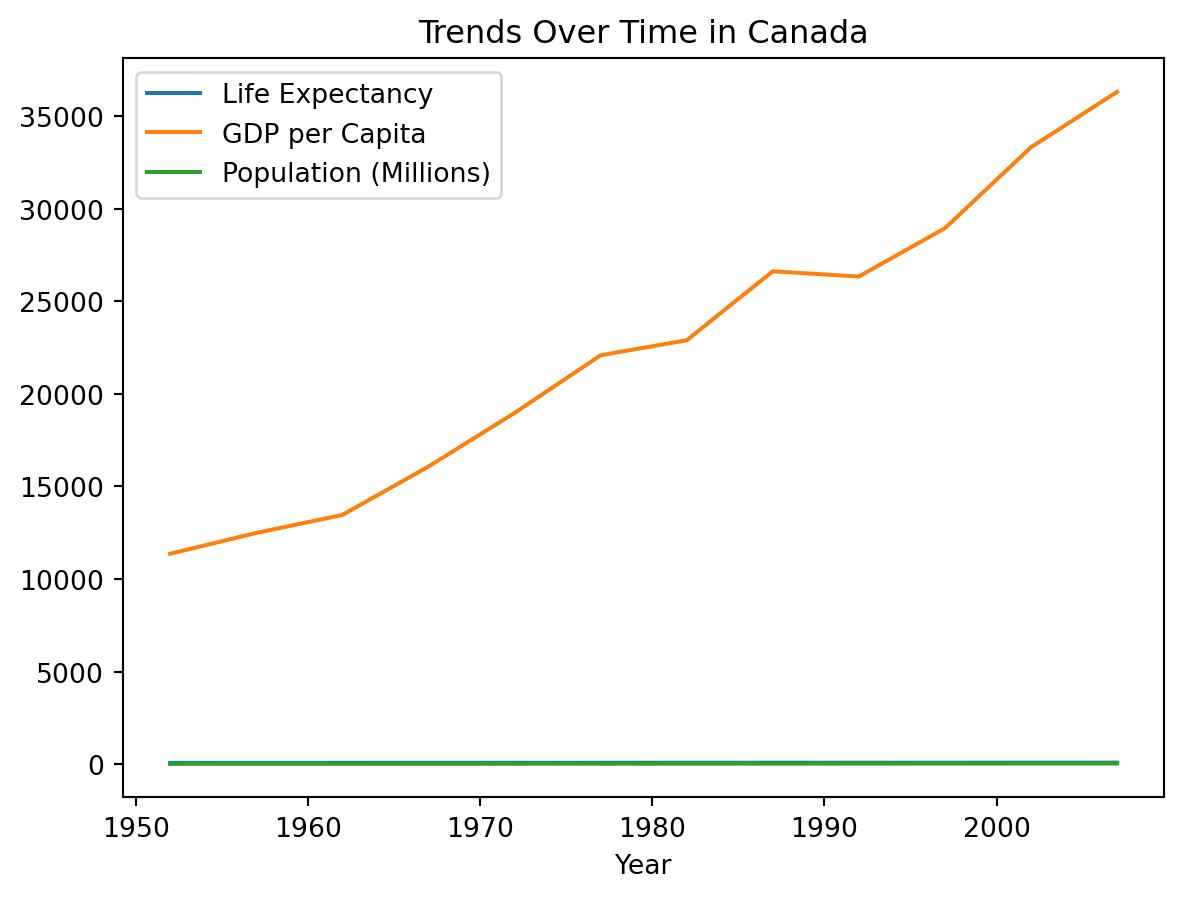
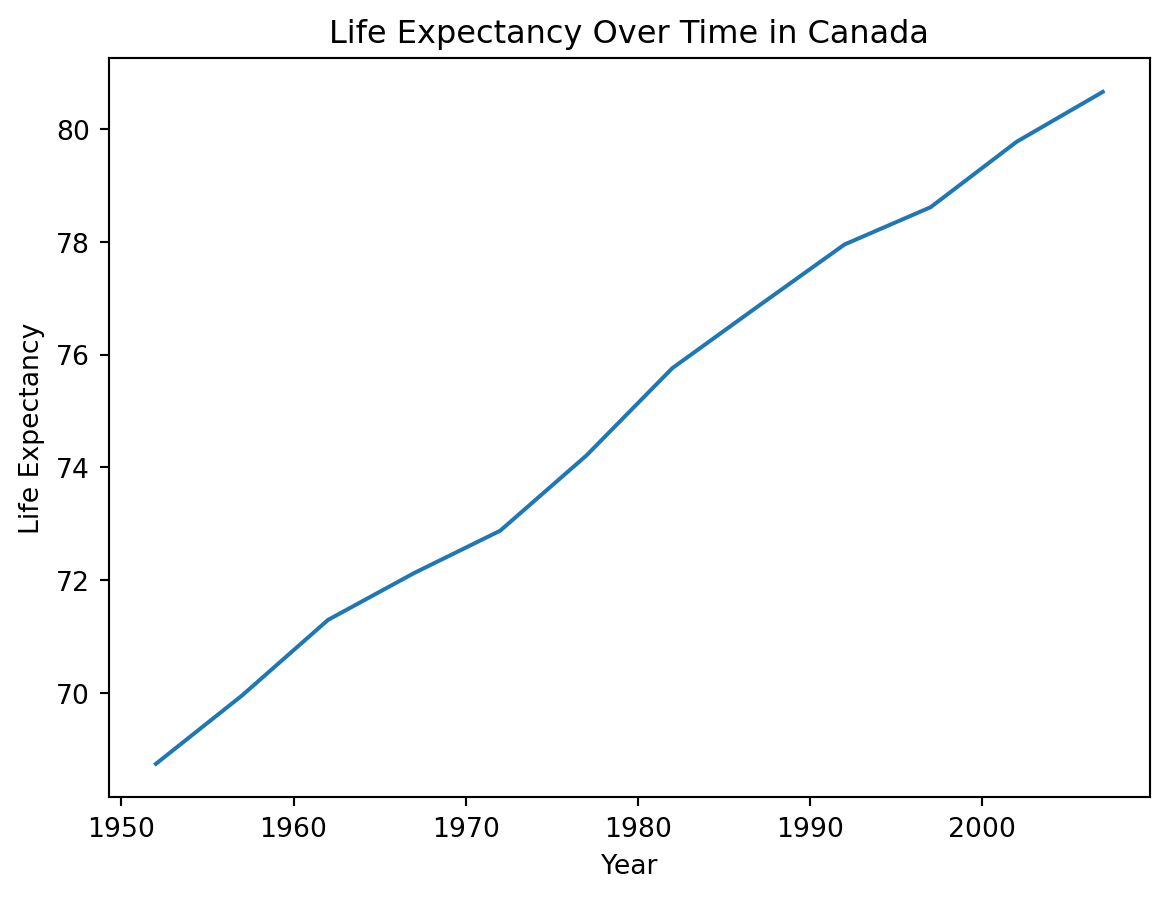
changed canada plots

diff --git a/docs/country.html b/docs/country.html
@@ -186,7 +186,7 @@ pre > code.sourceCode > span > a:first-child::before { text-decoration: underlin
 <section id="introduction" class="level2">
 <h2 class="anchored" data-anchor-id="introduction">Introduction</h2>
 <p>This page analyzes changes in life expectancy, GDP per capita, and population over time for Canada using the Gapminder dataset.</p>
-<div id="07d0bd14" class="cell" data-message="false" data-execution_count="1">
+<div id="8e541cda" class="cell" data-message="false" data-execution_count="1">
 <div class="code-copy-outer-scaffold"><div class="sourceCode cell-code" id="cb1"><pre class="sourceCode python code-with-copy"><code class="sourceCode python"><span id="cb1-1"><a href="#cb1-1" aria-hidden="true" tabindex="-1"></a><span class="im">import</span> pandas <span class="im">as</span> pd</span>
 <span id="cb1-2"><a href="#cb1-2" aria-hidden="true" tabindex="-1"></a><span class="im">import</span> matplotlib.pyplot <span class="im">as</span> plt</span>
 <span id="cb1-3"><a href="#cb1-3" aria-hidden="true" tabindex="-1"></a></span>
@@ -196,18 +196,43 @@ pre > code.sourceCode > span > a:first-child::before { text-decoration: underlin
 <span id="cb1-7"><a href="#cb1-7" aria-hidden="true" tabindex="-1"></a>country_df <span class="op">=</span> df[df[<span class="st">"country"</span>] <span class="op">==</span> country_name].sort_values(<span class="st">"year"</span>)</span>
 <span id="cb1-8"><a href="#cb1-8" aria-hidden="true" tabindex="-1"></a></span>
 <span id="cb1-9"><a href="#cb1-9" aria-hidden="true" tabindex="-1"></a>plt.figure()</span>
-<span id="cb1-10"><a href="#cb1-10" aria-hidden="true" tabindex="-1"></a>plt.plot(country_df[<span class="st">"year"</span>], country_df[<span class="st">"life_expectancy"</span>], label<span class="op">=</span><span class="st">"Life Expectancy"</span>)</span>
-<span id="cb1-11"><a href="#cb1-11" aria-hidden="true" tabindex="-1"></a>plt.plot(country_df[<span class="st">"year"</span>], country_df[<span class="st">"gdp_per_capita"</span>], label<span class="op">=</span><span class="st">"GDP per Capita"</span>)</span>
-<span id="cb1-12"><a href="#cb1-12" aria-hidden="true" tabindex="-1"></a>plt.plot(country_df[<span class="st">"year"</span>], country_df[<span class="st">"population_millions"</span>], label<span class="op">=</span><span class="st">"Population (Millions)"</span>)</span>
-<span id="cb1-13"><a href="#cb1-13" aria-hidden="true" tabindex="-1"></a></span>
-<span id="cb1-14"><a href="#cb1-14" aria-hidden="true" tabindex="-1"></a>plt.xlabel(<span class="st">"Year"</span>)</span>
-<span id="cb1-15"><a href="#cb1-15" aria-hidden="true" tabindex="-1"></a>plt.title(<span class="st">"Trends Over Time in Canada"</span>)</span>
-<span id="cb1-16"><a href="#cb1-16" aria-hidden="true" tabindex="-1"></a>plt.legend()</span>
-<span id="cb1-17"><a href="#cb1-17" aria-hidden="true" tabindex="-1"></a>plt.show()</span></code></pre></div><button title="Copy to Clipboard" class="code-copy-button"><i class="bi"></i></button></div>
+<span id="cb1-10"><a href="#cb1-10" aria-hidden="true" tabindex="-1"></a>plt.plot(country_df[<span class="st">"year"</span>], country_df[<span class="st">"life_expectancy"</span>])</span>
+<span id="cb1-11"><a href="#cb1-11" aria-hidden="true" tabindex="-1"></a>plt.xlabel(<span class="st">"Year"</span>)</span>
+<span id="cb1-12"><a href="#cb1-12" aria-hidden="true" tabindex="-1"></a>plt.ylabel(<span class="st">"Life Expectancy"</span>)</span>
+<span id="cb1-13"><a href="#cb1-13" aria-hidden="true" tabindex="-1"></a>plt.title(<span class="ss">f"Life Expectancy Over Time in </span><span class="sc">{</span>country_name<span class="sc">}</span><span class="ss">"</span>)</span>
+<span id="cb1-14"><a href="#cb1-14" aria-hidden="true" tabindex="-1"></a>plt.show()</span>
+<span id="cb1-15"><a href="#cb1-15" aria-hidden="true" tabindex="-1"></a></span>
+<span id="cb1-16"><a href="#cb1-16" aria-hidden="true" tabindex="-1"></a>plt.figure()</span>
+<span id="cb1-17"><a href="#cb1-17" aria-hidden="true" tabindex="-1"></a>plt.plot(country_df[<span class="st">"year"</span>], country_df[<span class="st">"gdp_per_capita"</span>])</span>
+<span id="cb1-18"><a href="#cb1-18" aria-hidden="true" tabindex="-1"></a>plt.xlabel(<span class="st">"Year"</span>)</span>
+<span id="cb1-19"><a href="#cb1-19" aria-hidden="true" tabindex="-1"></a>plt.ylabel(<span class="st">"GDP per Capita"</span>)</span>
+<span id="cb1-20"><a href="#cb1-20" aria-hidden="true" tabindex="-1"></a>plt.title(<span class="ss">f"GDP per Capita Over Time in </span><span class="sc">{</span>country_name<span class="sc">}</span><span class="ss">"</span>)</span>
+<span id="cb1-21"><a href="#cb1-21" aria-hidden="true" tabindex="-1"></a>plt.show()</span>
+<span id="cb1-22"><a href="#cb1-22" aria-hidden="true" tabindex="-1"></a></span>
+<span id="cb1-23"><a href="#cb1-23" aria-hidden="true" tabindex="-1"></a>plt.figure()</span>
+<span id="cb1-24"><a href="#cb1-24" aria-hidden="true" tabindex="-1"></a>plt.plot(country_df[<span class="st">"year"</span>], country_df[<span class="st">"population_millions"</span>])</span>
+<span id="cb1-25"><a href="#cb1-25" aria-hidden="true" tabindex="-1"></a>plt.xlabel(<span class="st">"Year"</span>)</span>
+<span id="cb1-26"><a href="#cb1-26" aria-hidden="true" tabindex="-1"></a>plt.ylabel(<span class="st">"Population (Millions)"</span>)</span>
+<span id="cb1-27"><a href="#cb1-27" aria-hidden="true" tabindex="-1"></a>plt.title(<span class="ss">f"Population Over Time in </span><span class="sc">{</span>country_name<span class="sc">}</span><span class="ss">"</span>)</span>
+<span id="cb1-28"><a href="#cb1-28" aria-hidden="true" tabindex="-1"></a>plt.show()</span></code></pre></div><button title="Copy to Clipboard" class="code-copy-button"><i class="bi"></i></button></div>
 <div class="cell-output cell-output-display">
 <div>
 <figure class="figure">
-<p><img src="country_files/figure-html/cell-2-output-1.png" width="592" height="449" class="figure-img"></p>
+<p><img src="country_files/figure-html/cell-2-output-1.png" width="585" height="449" class="figure-img"></p>
+</figure>
+</div>
+</div>
+<div class="cell-output cell-output-display">
+<div>
+<figure class="figure">
+<p><img src="country_files/figure-html/cell-2-output-2.png" width="610" height="449" class="figure-img"></p>
+</figure>
+</div>
+</div>
+<div class="cell-output cell-output-display">
+<div>
+<figure class="figure">
+<p><img src="country_files/figure-html/cell-2-output-3.png" width="597" height="449" class="figure-img"></p>
 </figure>
 </div>
 </div>

diff --git a/docs/life-gdp.html b/docs/life-gdp.html
@@ -186,7 +186,7 @@ pre > code.sourceCode > span > a:first-child::before { text-decoration: underlin
 <section id="introduction" class="level2">
 <h2 class="anchored" data-anchor-id="introduction">Introduction</h2>
 <p>This page explores the relationship between life expectancy and GDP per capita using the Gapminder dataset.</p>
-<div id="ea27cf3f" class="cell" data-message="false" data-execution_count="1">
+<div id="6c4a46cf" class="cell" data-message="false" data-execution_count="1">
 <div class="code-copy-outer-scaffold"><div class="sourceCode cell-code" id="cb1"><pre class="sourceCode python code-with-copy"><code class="sourceCode python"><span id="cb1-1"><a href="#cb1-1" aria-hidden="true" tabindex="-1"></a><span class="im">import</span> pandas <span class="im">as</span> pd</span>
 <span id="cb1-2"><a href="#cb1-2" aria-hidden="true" tabindex="-1"></a><span class="im">import</span> matplotlib.pyplot <span class="im">as</span> plt</span>
 <span id="cb1-3"><a href="#cb1-3" aria-hidden="true" tabindex="-1"></a></span>

diff --git a/docs/life-population.html b/docs/life-population.html
@@ -186,7 +186,7 @@ pre > code.sourceCode > span > a:first-child::before { text-decoration: underlin
 <section id="introduction" class="level2">
 <h2 class="anchored" data-anchor-id="introduction">Introduction</h2>
 <p>This page explores the relationship between life expectancy and population using the Gapminder dataset.</p>
-<div id="7b0c4978" class="cell" data-message="false" data-execution_count="1">
+<div id="a559e449" class="cell" data-message="false" data-execution_count="1">
 <div class="code-copy-outer-scaffold"><div class="sourceCode cell-code" id="cb1"><pre class="sourceCode python code-with-copy"><code class="sourceCode python"><span id="cb1-1"><a href="#cb1-1" aria-hidden="true" tabindex="-1"></a><span class="im">import</span> pandas <span class="im">as</span> pd</span>
 <span id="cb1-2"><a href="#cb1-2" aria-hidden="true" tabindex="-1"></a><span class="im">import</span> matplotlib.pyplot <span class="im">as</span> plt</span>
 <span id="cb1-3"><a href="#cb1-3" aria-hidden="true" tabindex="-1"></a></span>
